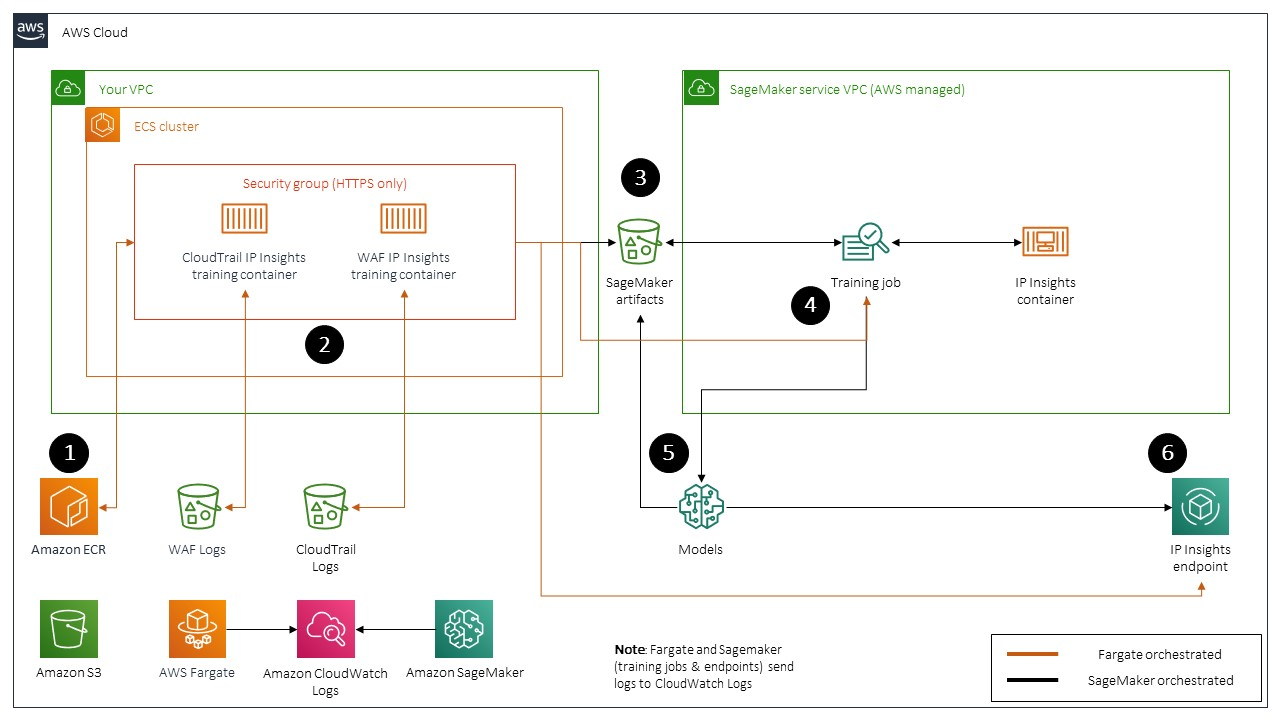
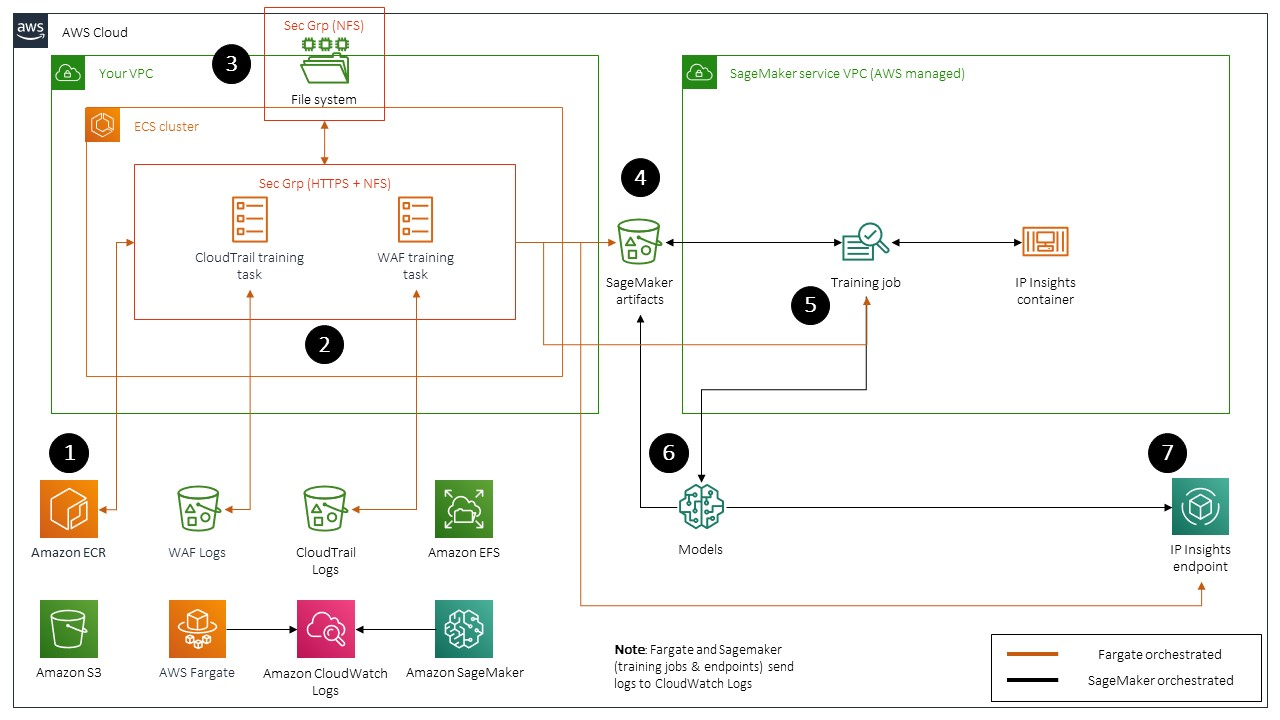
Update appendix A architecture

diff --git a/appendix-a-ipinsights/README.md b/appendix-a-ipinsights/README.md
@@ -19,11 +19,12 @@ This Appendix is split into two sections - one for WAF logs and one for CloudTra
 Below is a basic representation of the data processing, model training and model endpoint hosting that happens between Fargate, SageMaker and S3.
 ![SyntheticSun IP Insights Training Ground Architecture](https://github.com/jonrau1/SyntheticSun/blob/master/img/ipinsights-training-architecture.jpg)
 1. Docker images for each IP Insights training task are pulled from Amazon [Elastic Container Registry](https://docs.aws.amazon.com/AmazonECR/latest/userguide/what-is-ecr.html) (ECR).
-2. Each container will download and parse the trail day's logs from their respective bucket. Basic Python libraries such as `json`, `csv` and `re` are used to process the logs into a [headerless CSV file](https://docs.aws.amazon.com/sagemaker/latest/dg/ip-insights-training-data-formats.html) used for the SageMaker training jobs.
-3. The `sagemaker` [library](https://pypi.org/project/sagemaker/1.0.0/) is used to persist the training data into SageMaker's default S3 bucket and create various utilities to start the training jobs such as temporary credentials from the ECS Task IAM Role.
-4. The SageMaker training jobs for each data type is scheduled to begin, it will pull an IP Insights container from the AWS service account in the region and download the CSV file from S3. [Hyperparameters](https://docs.aws.amazon.com/sagemaker/latest/dg/ip-insights-hyperparameters.html) are specified in the respective job's Python script in the Docker image.
-5. If the training job was successful a GZIP'ed tarball of the model is uploaded into another output prefix path in the same S3 bucket. These are timestamped and can be referred back to for other usage such as [tuning jobs](https://docs.aws.amazon.com/sagemaker/latest/dg/ip-insights-tuning.html) or swapping them out from endpoints.
-6. Finally, a SageMaker [Endpoint](https://docs.aws.amazon.com/sagemaker/latest/dg/deploy-model.html) is deployed using the trained model and is ready for real-time and/or batch inference of entity and IPv4 address pairs.
+2. Each task will download and parse the trailing day's logs from their respective bucket. Basic Python libraries such as `json`, `csv` and `re` are used to process the logs into a [headerless CSV file](https://docs.aws.amazon.com/sagemaker/latest/dg/ip-insights-training-data-formats.html) used for the SageMaker training jobs.
+3. The downloaded objects from S3 are saved to the container root volume which has an attachment to [Amazon Elastic File System](https://docs.aws.amazon.com/efs/latest/ug/whatisefs.html). This is done due to the potential for large amounts of logs, the ephemeral storage for Fargate tasks running the `1.4.0` [Platform Version](https://aws.amazon.com/blogs/containers/aws-fargate-launches-platform-version-1-4/) only have up to 20GB.
+4. The `sagemaker` [library](https://pypi.org/project/sagemaker/1.0.0/) is used to persist the training data into SageMaker's default S3 bucket and create various utilities to start the training jobs such as temporary credentials from the ECS Task IAM Role.
+5. The SageMaker training jobs for each data type is scheduled to begin, it will pull an IP Insights container from the AWS service account in the region and download the CSV file from S3. [Hyperparameters](https://docs.aws.amazon.com/sagemaker/latest/dg/ip-insights-hyperparameters.html) are specified in the respective job's Python script in the Docker image.
+6. If the training job was successful a GZIP'ed tarball of the model is uploaded into another output prefix path in the same S3 bucket. These are timestamped and can be referred back to for other usage such as [tuning jobs](https://docs.aws.amazon.com/sagemaker/latest/dg/ip-insights-tuning.html) or swapping them out from endpoints.
+7. Finally, a SageMaker [Endpoint](https://docs.aws.amazon.com/sagemaker/latest/dg/deploy-model.html) is deployed using the trained model and is ready for real-time and/or batch inference of entity and IPv4 address pairs.
 
 ### Deployment guide
 The steps below can be performed for both the CloudTrail or WAF training jobs interchangeably - this guide assumes you will do both as that is what is the CloudFormation template is expecting. Ensure you navigate to the correct directory for your training job. All steps are performed on an Ubuntu 18.04LTS EC2 instance, modify the commands as needed, you should have power user rights on your instance profile / credentials profile to deploy the services.
@@ -89,3 +90,6 @@ I hope to. The downstream solution uses the RCF detectors built into Kibana (for
 To perform filtering of listed S3 objects there is a reliance on regex using the Python `re` library to both ignore digest files and (for all training grounds jobs) filter the listed keys. I do not know of a solution to perform time-based filtering as an arguement when listing objects, due to that, every single object in the bucket will be looped over and downloaded. The time-based filtering is using `strftime` from the `datetime` library to create a `YYYY/MM/DD` timestamp. You can specify `HH` or `HH/MM` to further scope down the data processing. I do not see another way around doing what I am doing in whole or in part, the previous mentioned steps should at least slightly speed up the job.
 
 Another option would likely be performing a pre-pre-processing step of using a shell script and the S3 CLI (and other *nix tools) to pre-stage a subet of keys in the S3 bucket in another bucket and do away with the pre-processing that is done in the Python scripts (namely the listing and regex matching of objects).
+
+### 9. How is EFS configured for the Fargate tasks?
+A single mount point is created in a public subnet where you intend to run the tasks with a seperate security group that will allow in NFS (TCP 2049) traffic for the /16 of your VPC (you can modify that parameter to only allow the subnet's CIDR). The AWS-managed KMS key is used for encryption but Tasks only attach it as a regular volume, there are not any conditions to force TLS. The EFS file system is set to move all files to IA after 7 days of inactivity which will helper save ~80% of potential costs in us-east-1.
